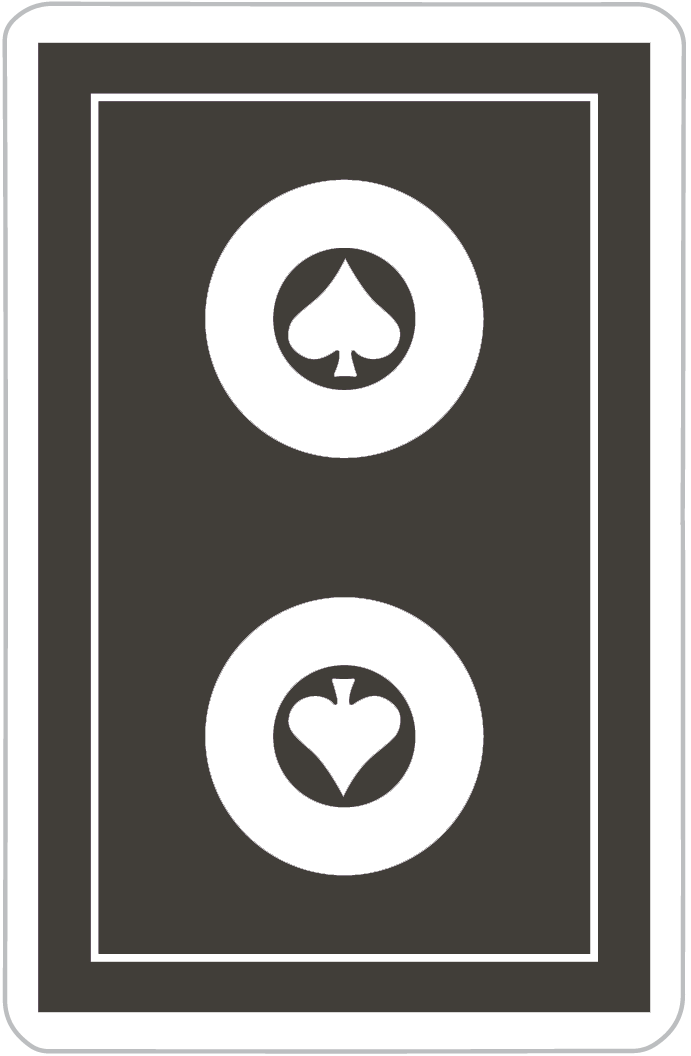
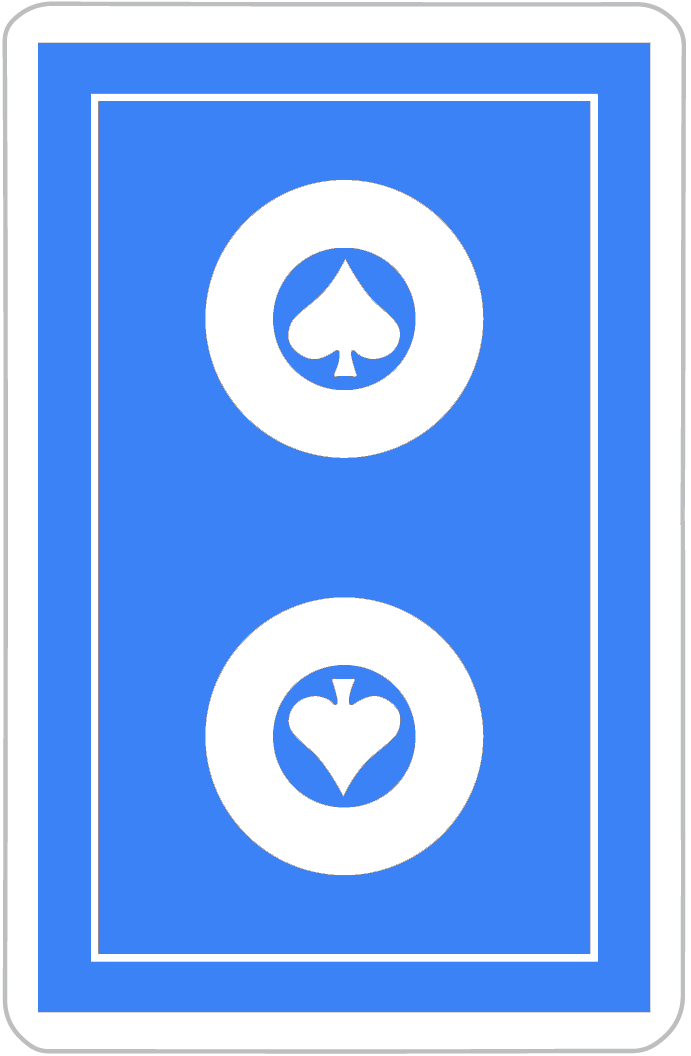
change color cartes et icones, fix box sizing, fix très bizarres

diff --git a/frontend/src/app/pages/training/training.component.scss b/frontend/src/app/pages/training/training.component.scss
@@ -3,6 +3,7 @@
 * {
     font-family: "Lato", sans-serif;
     user-drag: none;
+    box-sizing: unset !important;
 }
 
 ion-icon {
@@ -66,7 +67,7 @@ ion-icon {
     background: radial-gradient(rgb(0, 151, 0), black 150%);
     border-radius: 500px;
     border: 20px solid rgb(230, 230, 230);
-    box-shadow: 0 0 30px 5px rgb(49, 49, 49);
+    box-shadow: 0 0 15px 5px rgba(0, 0, 0, 0.3);
 }
 
 .pokerTable h1 {
@@ -118,10 +119,6 @@ img {
     transform: translate(-50%, -50%);
     cursor: pointer;
     transition: top ease 0.25s;
-    -webkit-transition: 0.25s linear;
-    -moz-transition: 0.25s linear;
-    -ms-transition: 0.25s linear;
-    -o-transition: 0.25s linear;
 }
 
 .userCards:active+hr.userHr {
@@ -309,51 +306,66 @@ hr.oponent2Hr {
 .rightDiv {
     background-color: #fff;
     color: #303030;
-    border-radius: 10px;
-    padding: 20px 45px;
+    border-radius: 6px;
+    padding: 20px;
     box-shadow: 0 3px 25px rgba(0, 0, 0, 0.3);
-    width: 10%;
+    width: 200px;
     position: absolute;
     top: 50%;
     left: 84%;
     transform: translate(-50%, -50%);
+    display: flex;
+    align-items: center;
+    flex-direction: column;
+    -webkit-border-radius: 6px;
+    -moz-border-radius: 6px;
+    -ms-border-radius: 6px;
+    -o-border-radius: 6px;
 }
 
 
 $colors: (
-    fill: #303030,
+    fill: #3B82F6,
 );
 
 @each $button,
 $color in $colors {
     .#{$button} {
-        --color: #{$color};
-        --hover: #{adjust-hue($color, 45deg)};
+        --color: #303030;
+        --hover: #{$color};
     }
 }
 
 button {
     background: none;
-    border: 2px solid;
-    margin-bottom: 20px;
-    line-height: 1;
-    font-weight: 600;
-    font-size: 1.2em;
-    padding: 1em;
-    padding-top: 15px;
-    padding-bottom: 15px;
-    letter-spacing: 0.5px;
-    width: 100%;
+    margin-top: 10px;
+    margin-bottom: 10px;
+    border: 1px solid;
+    font-size: 1.1em;
+    padding: 15px;
+    letter-spacing: 1px;
+    width: fit-content;
+    min-width: 150px;
+    cursor: pointer;
+    align-self: center;
     border-radius: 10px;
     -webkit-border-radius: 10px;
     -moz-border-radius: 10px;
     -ms-border-radius: 10px;
     -o-border-radius: 10px;
-}
 
-button {
     color: var(--color);
     transition: 0.25s;
+
+    &:hover {
+        border-color: var(--hover);
+        color: #fff;
+    }
+
+    user-select: none;
+    -webkit-user-select: none;
+    -moz-user-select: none;
+    -ms-user-select: none;
 }
 
 .fill {
@@ -374,10 +386,10 @@ button {
     height: 50px;
     border-radius: 50%;
     transform: translate(-50%, -50%);
-    background-color: #ffde00;
+    background-color: #3B82F6;
     color: #303030;
     text-align: center;
-    box-shadow: 0 3px 25px rgba(0, 0, 0, 0.8);
+    box-shadow: 0 3px 15px rgba(0, 0, 0, 0.4);
     -webkit-touch-callout: none;
     -webkit-user-select: none;
     -khtml-user-select: none;
@@ -387,8 +399,9 @@ button {
 }
 
 .dealer-coin-text {
+    color: #fff;
     position: absolute;
-    top: 50%;
+    top: 47%;
     left: 50%;
     transform: translate(-50%, -50%);
     font-size: 27px;

diff --git a/frontend/src/app/pages/settings/settings.component.html b/frontend/src/app/pages/settings/settings.component.html
@@ -31,6 +31,10 @@
                 </div>
                 <div class="settings-second-part">
                     <h4>Situations</h4>
+                    <div class="switch-container">
+                        <div class="setting-description">Nom de solution multiple auto</div>
+                        <p-inputSwitch [(ngModel)]="displaySolutionOnError"></p-inputSwitch>
+                    </div>
                     <div class="buttons-container">
                         <div class="side-buttons">
                             <button class="fill">Importer</button>

diff --git a/frontend/src/app/pages/training/training.component.html b/frontend/src/app/pages/training/training.component.html
@@ -75,7 +75,6 @@
             <hr class="userHr">
         </div>
         <div class="rightDiv">
-            <br>
             <div *ngFor="let action of filteredActionList(activeSituation.actions, 'unique')">
                 <button *ngIf="action.display_name" class="fill" [id]="'button_' + action.id"
                     (click)="checkResultCase(action.id)">{{action.display_name}}</button>
